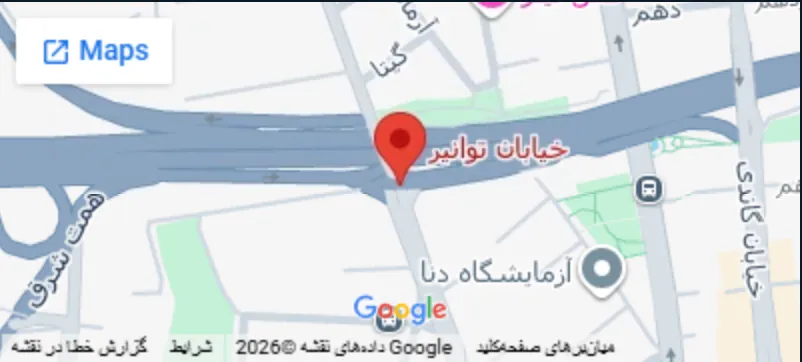
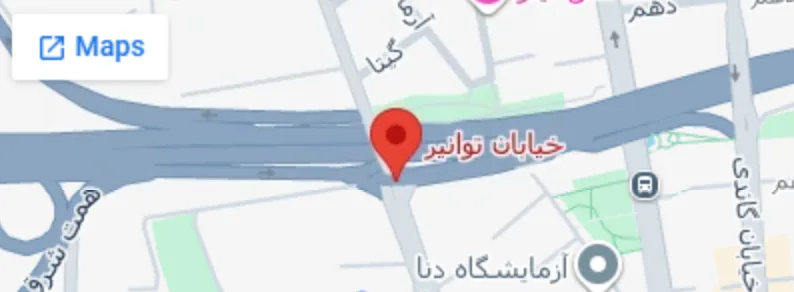
polish: the map preview drops the provider chrome
The still frame is recaptured and cropped so no buttons, logo or attribution
strip show in the placeholder.

diff --git a/templates/partials/footer.html b/templates/partials/footer.html
@@ -47,7 +47,7 @@
             <div class="map-frame map-frame--footer">
               <button class="map-preview" type="button" data-map-src="{{ embed_url }}"
                       aria-label="{% if is_fa %}نمایش نقشهٔ موقعیت تماکار{% else %}Show the Temakar location map{% endif %}">
-                <img src="{% static 'img/map-preview.webp' %}" width="802" height="362" alt="" loading="eager">
+                <img src="{% static 'img/map-preview.webp' %}" width="794" height="292" alt="" loading="eager">
                 <span class="map-preview__label">{% if is_fa %}نمایش نقشه{% else %}Show map{% endif %}</span>
               </button>
             </div>
